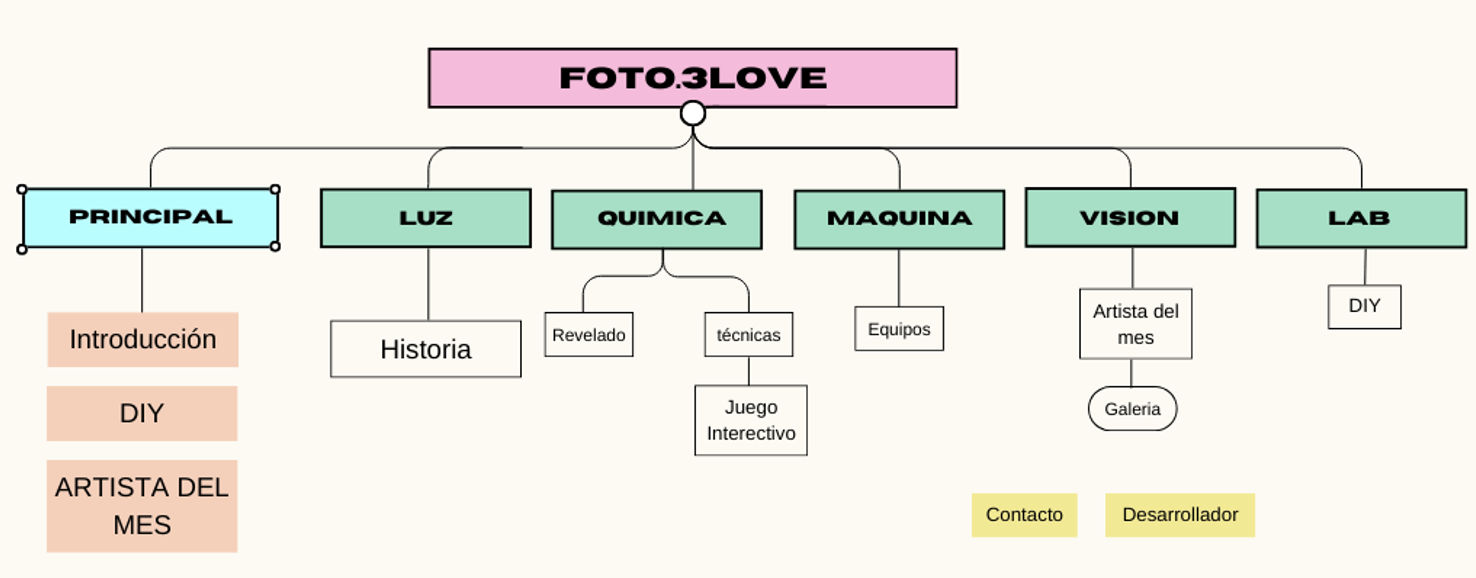
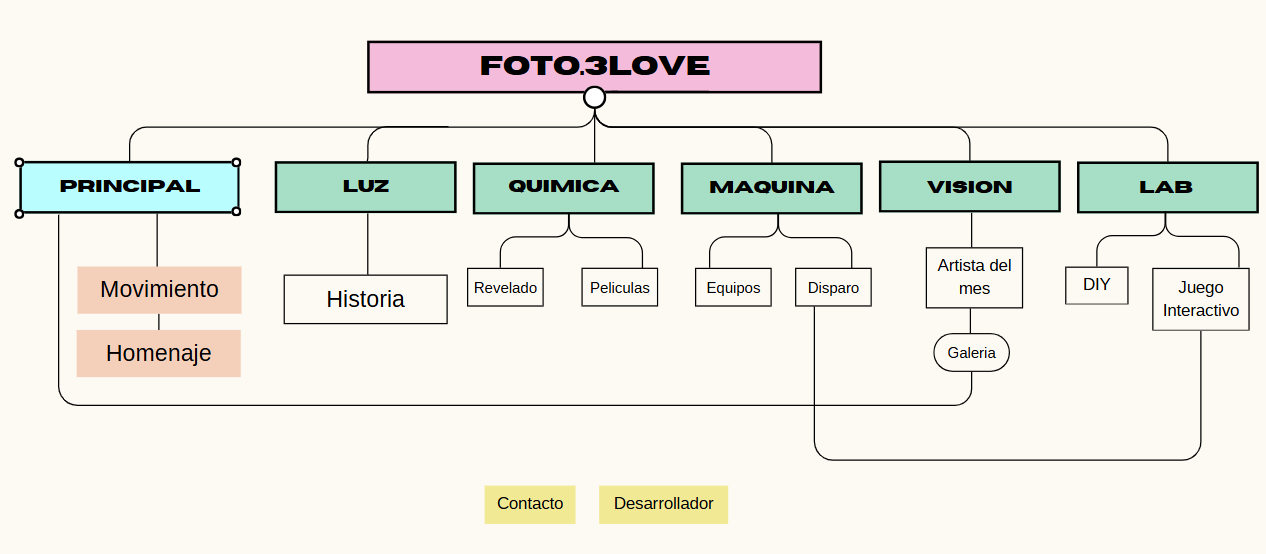
Creacion y organizacion de carpetas

diff --git a/principal/lemes.html b/principal/lemes.html
@@ -1,0 +1,14 @@
+<!DOCTYPE html>
+<html lang="en">
+
+<head>
+    <meta charset="UTF-8">
+    <meta name="viewport" content="width=device-width, initial-scale=1.0">
+    <title>Document</title>
+</head>
+
+<body>
+
+</body>
+
+</html>
